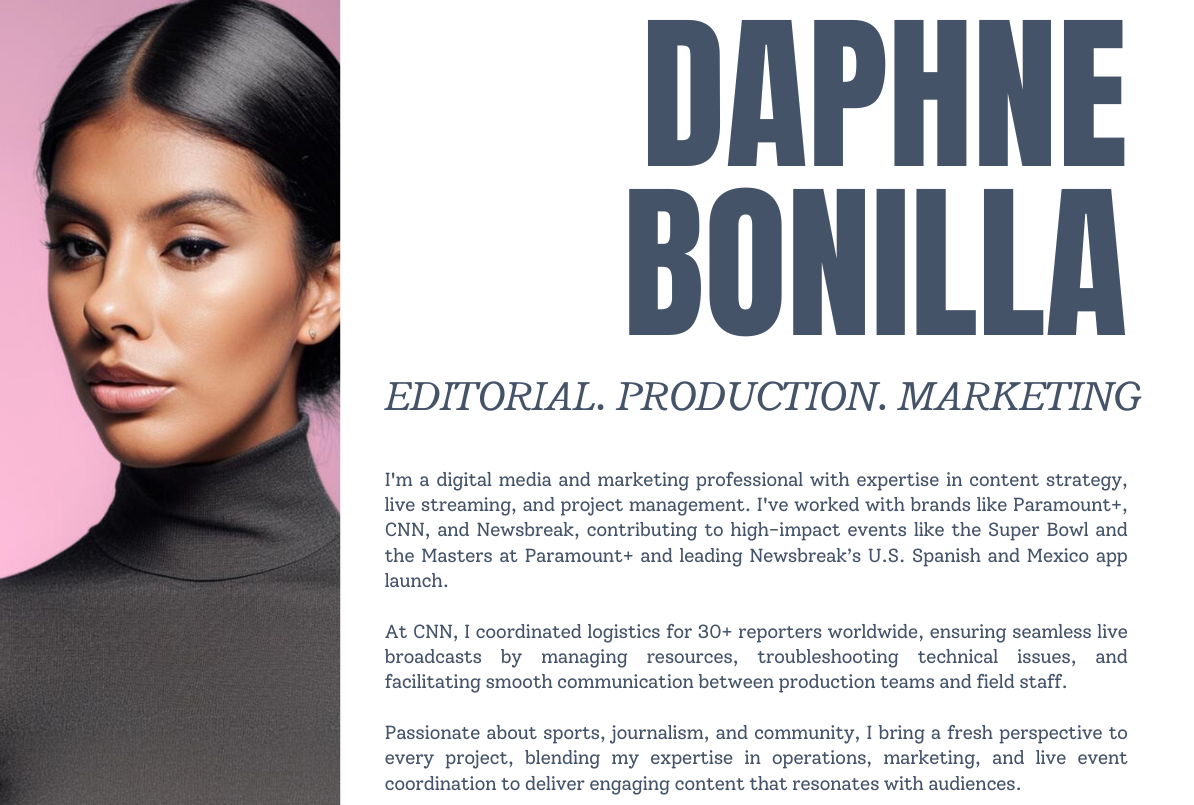
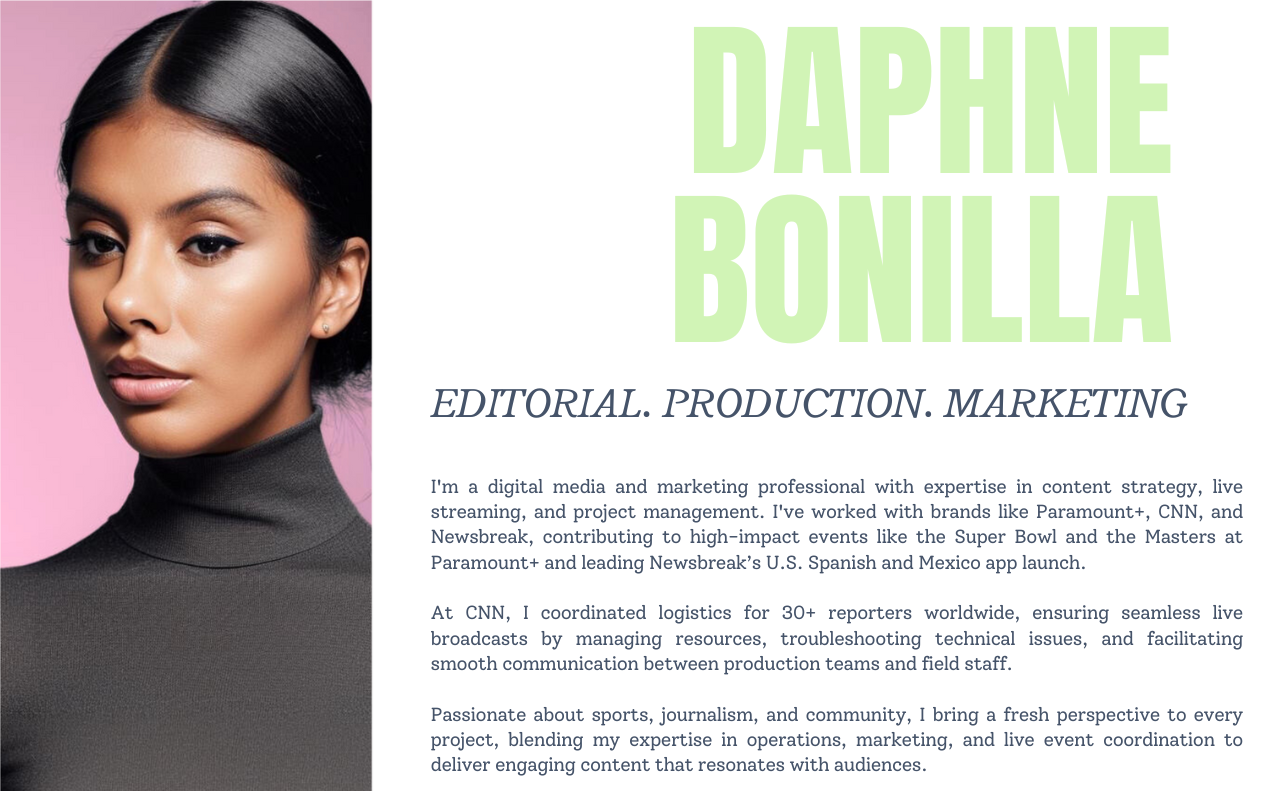
new layout

diff --git a/index.html b/index.html
@@ -13,9 +13,9 @@
     <title>Daphne Bonilla</title>
     <style>
       :root {
-        --font: "anton", sans-serif;
+        --font: "tt-hoves", sans-serif;
         --pink: #F4B6D1;
-        --blue: #455369;
+        --blue: black;
 ;
         --light-blue: #023281;
         --button-hover-transiton: all 200ms ease-in-out;
@@ -86,13 +86,18 @@
       header {
         display: flex;
         margin: 0 auto;
-        background-image: 
-          url("/images/daphne.jpg");
-        background-size:contain;
+        background-image: linear-gradient(
+            rgba(0, 0, 0, 0.5),
+            rgba(0, 0, 0, 0.5)
+          ),
+          url("/images/daphneb.png");
+        background-size: contain;
+        background-color: black;
         background-position: center;
         background-repeat: no-repeat;
         text-align: center;
-        min-height: 100vh;
+        min-height: 60vh;
+        width: 100%;
         justify-content: center;
         align-items: center;
       }
@@ -128,21 +133,21 @@
 
       .meet-cast,
       .interviews h2 {
-        color: #455369;
+        color: black;
         background-color: white;
 
 
       }
       
       .insta h2 {
-        color: #455369;
+        color: black;
       }
       .in-tech h2 {
-        color: #455369;
+        color: white;
       }
 
       .buzz h2 {
-        color: #455369;
+        color: black;
       }
 
       .meet-cast,
@@ -176,7 +181,7 @@
   overflow-x: auto; /* Allow horizontal scrolling if needed */
 }
 .in-tech {
-  background-color: var(--pink); 
+  background-color: black; 
   padding: 20px;
   border-radius: 8px;
   margin: 0 auto;
@@ -216,14 +221,14 @@
       .char-name {
         font-size: 22px;
         line-height: 22px;
-        color: #455369;
+        color: black;
         margin-top: 10px;
         margin-bottom: 0;
       }
 
       .actor {
         font-size: 16px;
-        color: #455369;
+        color: black;
         margin-top: 2px;
       }
 
@@ -237,24 +242,24 @@
 
       .card-title {
         padding: 20px 20px 10px;
-        color: #455369;
+        color: black;
 
       }
       .card-body {
         padding: 10px 30px;
-        color: #455369;
+        color: black;
 
       }
 
       .card-footer {
         padding: 20px;
         text-align: center;
-        color: #455369;
+        color: black;
 
       }
 
       .buzz {
-        background-color: var(--pink);
+        background-color: white;
         margin: 0 auto;
         padding-bottom: 100px;
       }
@@ -290,13 +295,13 @@
       }
 
       .trailers {
-        background-color: #D1F4B6;
+        background-color: white;
         margin: 0 auto;
         padding-bottom: 100px;
       }
 
       .trailers h2 {
-        color: #455369;
+        color: black;
       }
 
       .video {
@@ -305,7 +310,7 @@
         border-radius: 8px;
       }
       .insta {
-        background-color: #d1f4b6;
+        background-color: white;
         margin: 0 auto;
         padding-bottom: 100px;
       }
@@ -381,12 +386,6 @@ iframe {
 
       footer {
         color: white;
-        background-image: linear-gradient(
-            rgba(0, 0, 0, 0.7),
-            rgba(0, 0, 0, 0.7)
-          ),
-          url("/images/footer.jpg");
-
         background-repeat: no-repeat;
         background-position: center;
         background-size: cover;
@@ -397,15 +396,18 @@ iframe {
       footer h3 {
         font-size: 16px;
         line-height: 16px;
+        color: black;
       }
 
       footer p {
+        color:black;
         font-size: 16px;
         line-height: 24px;
       }
 
       footer ul {
         padding: 0;
+
       }
 
       footer li {
@@ -415,15 +417,15 @@ iframe {
       }
 
       footer a {
-        color: white;
+        color: black;
       }
 
       footer a:hover {
-        color: var(--pink);
+        color: #D84823;
       }
 
       .site-info {
-        color: white;
+        color: black;
         text-align: center;
         margin-bottom: 5px;
         font-size: 16px;
@@ -529,7 +531,7 @@ iframe {
     <header>
       <div class="hero">
        
-          <a href="#trailers"><i class="fa-solid fa-arrow-down"></i></a>
+         
         </div>
       </div>
       <!-- <div>
@@ -926,6 +928,7 @@ I contributed to the successful launch of Newsbreak’s Spanish app in Mexico, m
 
     
     </main>
+    <hr>
     <footer class="footer">
       <section class="grid grid-3-columns-with-first-narrow">
         <div>
